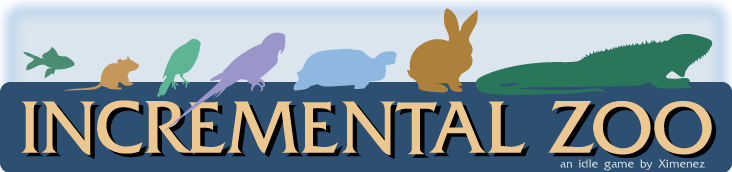
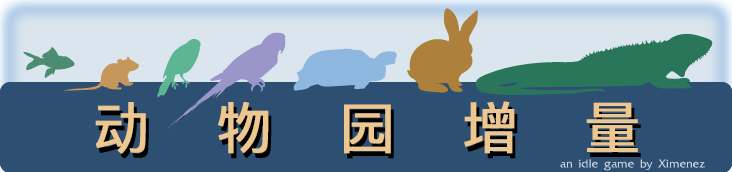
汉化完成

diff --git a/chs.js b/chs.js
@@ -128,19 +128,19 @@ var cnItems = {
     '"Be cautious of bears at all times, even when being mauled by a tiger." (Craig Benzine': '“任何时候都要小心熊，即使是被老虎咬伤的时候。” (克雷格苯',
     '"And the turtles, of course...all the turtles are free, as turtles and, maybe, all creatures should be." ( Dr. Seuss, Yertle the Turtle and Other Stories': '“当然还有海龟……所有的海龟都是自由的，也许所有的生物都应该是这样。”苏斯博士，耶特尔，海龟和其他的故事',
     '"Any fool can turn a blind eye but who knows what the ostrich sees in the sand." (Samuel Beckett, Murphy': '“傻瓜都可以睁一只眼闭一只眼，但谁知道鸵鸟在沙子里看到了什么呢?”(塞缪尔·贝克特,墨菲',
-    '': '',
-    '': '',
-    '': '',
-    '': '',
-    '': '',
-    '': '',
-    '': '',
-    '': '',
-    '': '',
-    '': '',
-    '': '',
-    '': '',
-    '': '',
+    '"One morning I shot an elephant in my pajamas. How he got into my pajamas I\'ll never know." (Groucho Marx': '“一天早上，我开枪打死了一头穿着睡衣的大象。我永远也不知道他是怎么穿上我的睡衣的。”(格劳乔·马克思',
+    '"Meerkat... it\'s what\'s for dinner!" (Uncle Max - The Lion King': '“猫鼬…这是晚餐吃的东西!”(麦克斯叔叔——《狮子王》',
+    '"If you were to make little fishes talk, they would talk like whales." (Oliver Goldsmith': '“如果你要让小鱼说话，它们就会像鲸鱼一样说话。”(奥利弗·戈德史密斯',
+    '"I\'ve never been in love, but if a penguin can find a soul mate, I\'m sure I can, too." (Rebekah Crane, Playing Nice': '“我从未恋爱过，但如果企鹅能找到灵魂伴侣，我相信我也能。”丽贝卡·克莱恩表现得很好',
+    '"The jaguar is the third-largest feline after the tiger and the lion, and the largest in the Western Hemisphere." (Wikipedia': '“美洲虎是仅次于老虎和狮子的第三大猫科动物，也是西半球最大的猫科动物。” （维基百科',
+    '"The chief difficulty Alice found at first was in managing her flamingo" (Lewis Carroll - Alice\'s Adventures in Wonderland': '“爱丽丝起初发现的主要困难在于管理她的火烈鸟”（刘易斯·卡罗尔-爱丽丝梦游仙境',
+    '"So, you\'re telling me the zoo commissioned you to make a zombie panda in order to avoid a potential international incident." (Lish McBride, Hold Me Closer, Necromancer': '“所以，你是在告诉我动物园为了避免潜在的国际事件委托动物园制作一只僵尸熊猫。” （莉丝·麦克布莱德（Lish McBride），抱紧我，死灵法师',
+    '"Remember that the most beautiful things in the world are the most useless: peacocks and lilies, for instance." (John Ruskin': '“记住，世界上最美丽的事物是最无用的：例如孔雀和百合。” （约翰·罗斯金',
+    '"Otters are natural experimenters." (Karen Pryor, Lads Before the Wind: Diary of a Dolphin Trainer': '“水獭是天生的实验者。” （凯伦·普赖尔（Karen Pryor），《风前的小伙子：海豚教练的日记',
+    '"God is really only another artist. He invented the giraffe, the elephant, and the cat. He has no real style. He just keeps on tryi ng other things." (Pablo Picasso': '“上帝真的只是另一位艺术家。他发明了长颈鹿，大象和猫。他没有真正的风格。他只是继续尝试其他东西。” （巴勃罗毕加索',
+    '"\'Farewell,\' they cried, \'Wherever you fare till your eyries receive you at the journey\'s end!\' That is the polite thing to say among eagles." (J.R.R. Tolkien, The Annotated Hobbit: The Hobbit, or, There and back again': '“\'告别\'，他们大声喊道，\'无论您花多少钱，直到旅程结束时，您的眼ries都收到您！\' 这是老鹰所说的客气话。” （J.R.R. Tolkien，《带注释的霍比特人：霍比特人》，或者，然后再返回',
+    '"We know that there are many animals on this continent not found in the Old World. These must have been carried from here to the ark, and then brought back afterwards." (Robert G. Ingersoll, Some Mistakes of Moses': '“我们知道在这个大陆上有很多动物是在旧世界中找不到的。这些动物一定是从这里运到方舟，然后再带回来的。” （罗伯特·英格索尔，《摩西的一些错误》',
+    '"When all of the animals heard that Mrs. Tapir was going extinct, they decided to pay her a visit and see if they could offer her some advice." (Ze Frank, True Facts About the Tapir': '“当所有的动物都听说塔皮尔夫人即将灭绝时，他们决定去拜访她，看看是否能给她一些建议。” （Ze Frank，关于，的真相',
     '': '',
     '': '',
     '': '',
